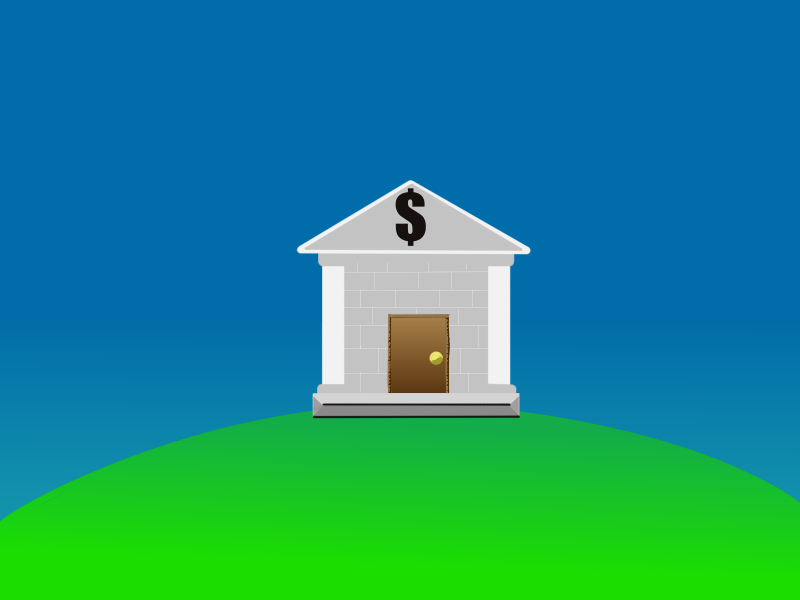
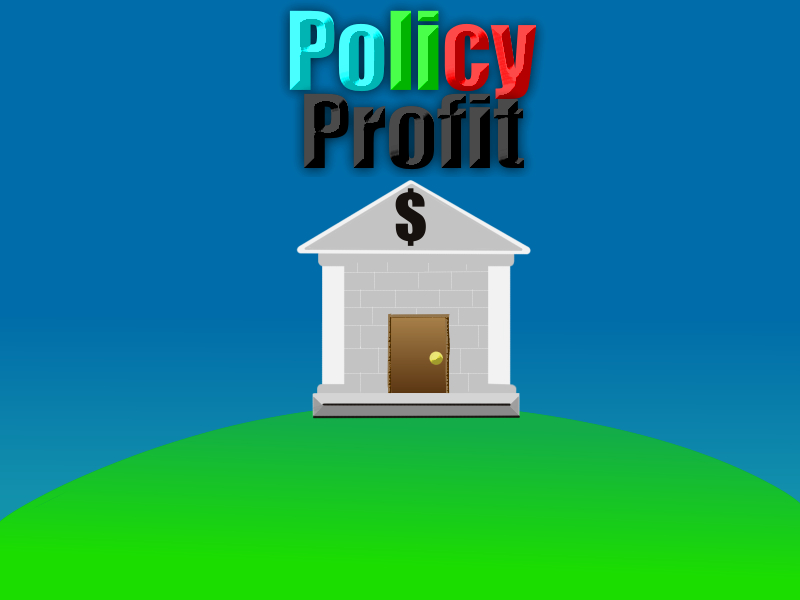
Configured start button, added background music.

Changed region(s): [[0.3438, 0.0, 0.6875, 0.3]]

diff --git a/src/mainmenu.js b/src/mainmenu.js
@@ -7,9 +7,19 @@ export default class MainMenu extends Phaser.Scene {
   }
   preload () {
     this.load.image('Main Menu', '/assets/MainMenu.png');
+    this.load.image('Start Button', '/assets/Start_Button.png');
+    this.load.audio("buttonClick", '/assets/buttonPress.wav');
   }
   create() {
     this.add.image(400,300, 'Main Menu');
-  }
+    let startButton = this.add.image(415, 450, 'Start Button');
+    startButton.setInteractive().on("pointerdown", () => {
+    this.input.on('pointerdown', () => this.scene.switch('level1'));
+    this.sound.play('buttonClick');
+       });
+   }
  
 }
+
+
+  

diff --git a/src/level1.js b/src/level1.js
@@ -7,8 +7,14 @@ export default class Level1 extends Phaser.Scene {
   }
   preload () {
     this.load.image('Bank_Level_1', '/assets/Bank_Level_1.png');
+    this.load.audio('level1music', '/assets/Walking_down_an_escalator.mp3');
   }
+
   create() {
     this.add.image(400, 300,'Bank_Level_1');
+    this.sound.play('level1music', {
+      volume: 0.3,
+      loop: true
+    });
   }
 }